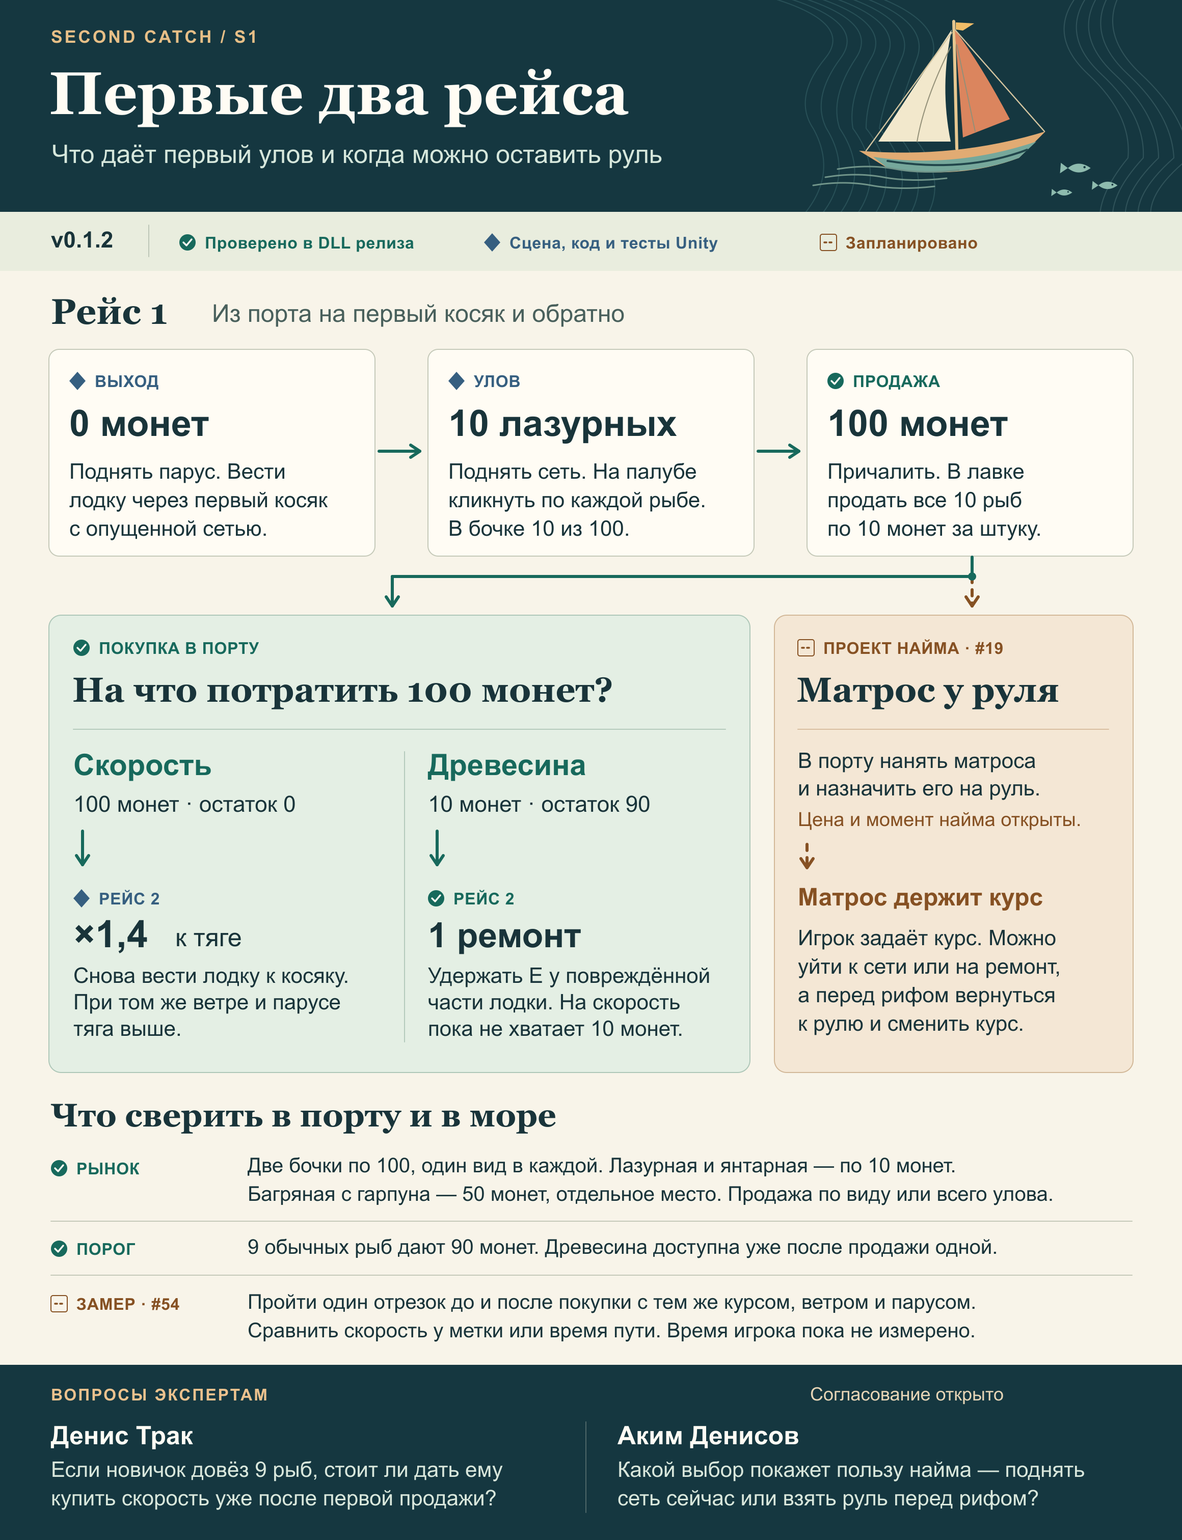
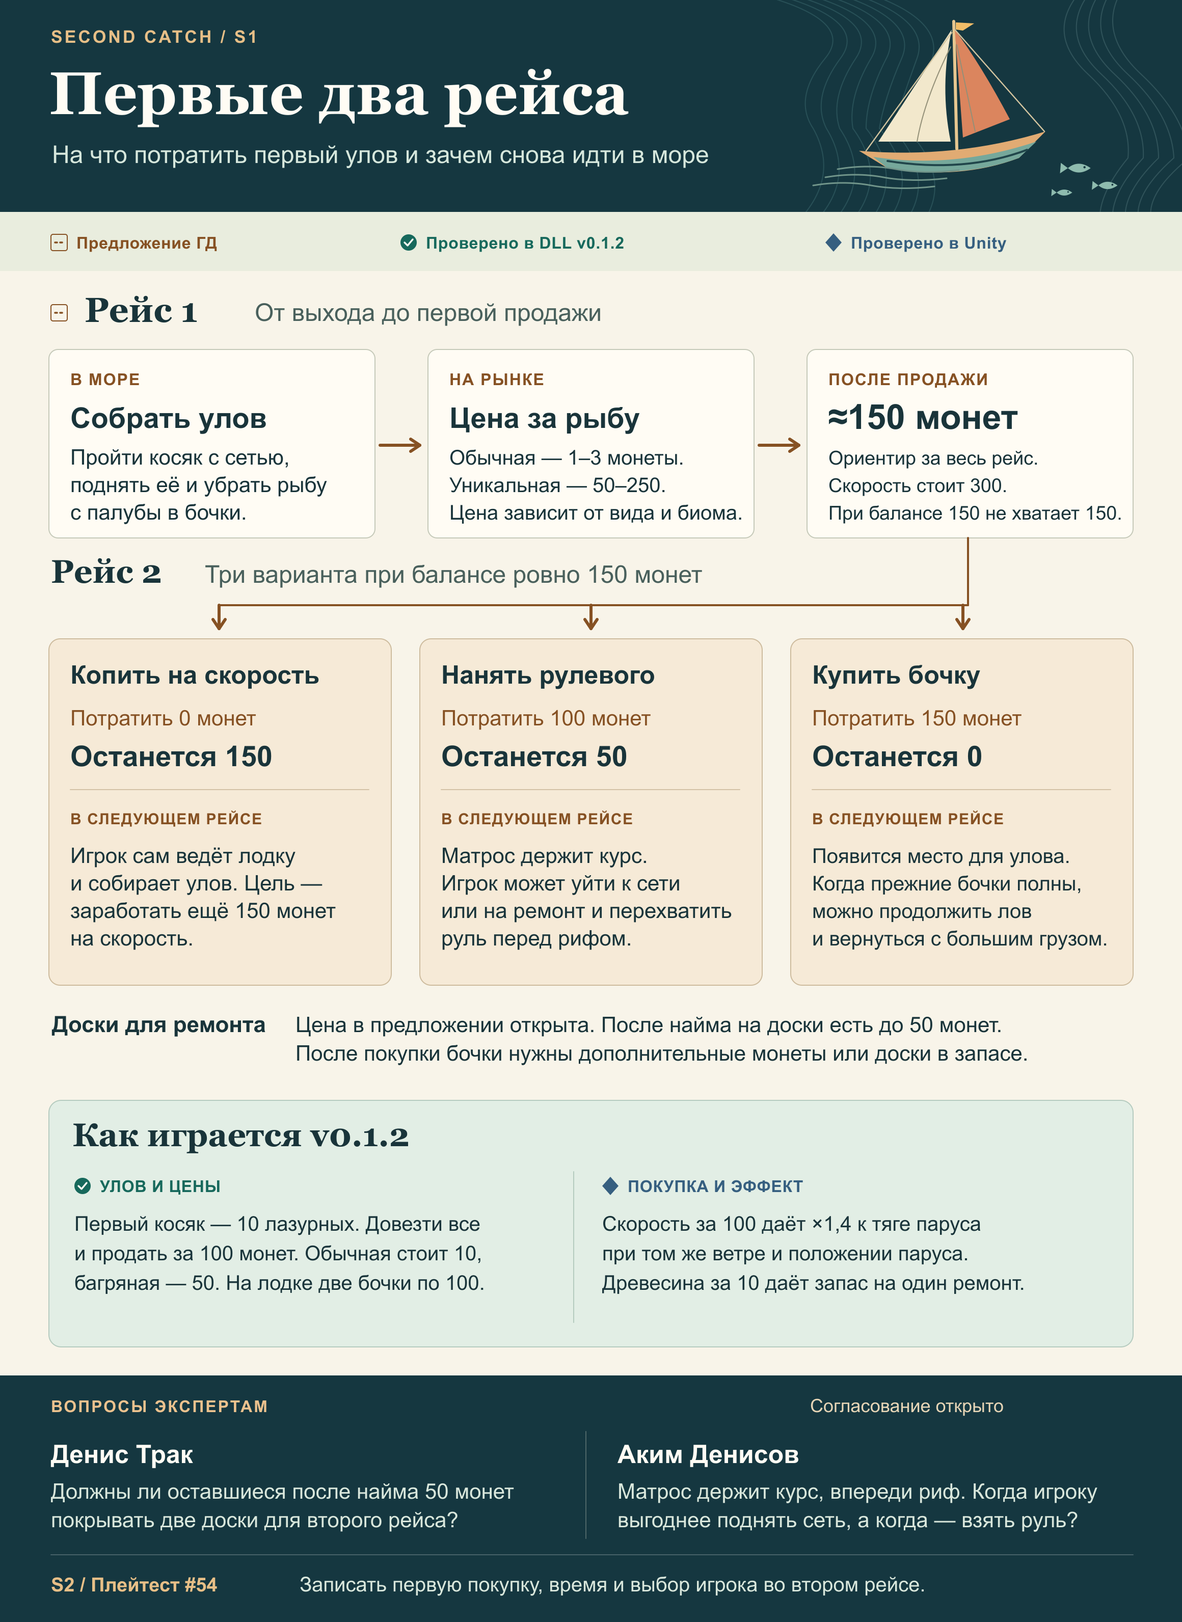
Показать выбор второго рейса по предложению ГД

diff --git a/docs/v2/s1-two-voyage-progression.md b/docs/v2/s1-two-voyage-progression.md
@@ -1,12 +1,24 @@
 # S1. Прогрессия первых двух рейсов
 
-В [v0.1.2](https://github.com/RelaxerR/raid-s3-jamstorm/releases/tag/v0.1.2) полный первый косяк оплачивает улучшение скорости. Древесину можно купить раньше и потратить в следующем рейсе на ремонт. Первый найм показан отдельной проектной веткой. Схема подготовлена для обсуждения [#55](https://github.com/RelaxerR/raid-s3-jamstorm/issues/55) 26 ноября 2026 года.
+ГД xzxslava предложил ориентир первой продажи — около 150 монет. При таком доходе можно начать копить на скорость, нанять рулевого или взять дополнительную бочку. На схеме показано, что игрок сможет сделать в следующем рейсе при каждом выборе. Ниже для сравнения приведены проверенные числа v0.1.2. [Комментарий ГД от 26 ноября](https://github.com/RelaxerR/raid-s3-jamstorm/pull/68#issuecomment-7190203458) · [Задача #55](https://github.com/RelaxerR/raid-s3-jamstorm/issues/55)
 
-[![Два рейса. Десять лазурных рыб дают 100 монет. После продажи игрок выбирает скорость или запас на ремонт. Отдельная ветка показывает будущего матроса у руля.](s1-two-voyage-progression.png)](s1-two-voyage-progression.png)
+[![Предложение ГД для первых двух рейсов. При 150 монетах игрок может копить на скорость за 300, нанять рулевого за 100 или купить дополнительную бочку за 150. Внизу показаны проверенные цены v0.1.2.](s1-two-voyage-progression.png)](s1-two-voyage-progression.png)
 
 [Открыть PNG в полном размере](s1-two-voyage-progression.png) · [Исходник SVG с текстовыми подписями](s1-two-voyage-progression.svg)
 
-## Сколько приносит первый косяк
+## Предложение ГД от 26 ноября
+
+Обычная рыба стоит 1–3 монеты за штуку, уникальная — 50–250 в зависимости от вида и биома. Около 150 монет — ориентир выручки за **весь первый рейс**. Состав улова в предложении не задан. Для сравнения, десять обычных рыб при таких ценах дадут от 10 до 30 монет. [Исходный комментарий](https://github.com/RelaxerR/raid-s3-jamstorm/pull/68#issuecomment-7190203458)
+
+| Решение в порту при балансе ровно 150 | Остаток до покупки досок | Что меняется в рейсе 2 |
+| --- | ---: | --- |
+| Сохранить деньги на скорость за 300 | 150 монет | Игрок сам ведёт лодку и работает у сети. До покупки скорости нужно заработать ещё 150. |
+| Нанять рулевого за 100 | 50 монет | Игрок задаёт курс и уходит к сети или на ремонт. Матрос держит курс до ручного перехвата. Перед рифом игрок решает, продолжать работу или взять руль. |
+| Купить дополнительную бочку за 150 | 0 монет | Если прежние бочки полны, можно продолжить лов и доставить больше рыбы. Ёмкость новой бочки ГД пока не указал. |
+
+ГД также предложил взять в рейс пару досок. После найма на них остаётся 50 монет, стоимость пары ещё нужно уточнить. Если бочка забрала все 150, на доски потребуется дополнительная выручка или запас до покупки. Фактическая первая покупка и её время станут известны после самостоятельного прогона в S2. [Плейтест #54](https://github.com/RelaxerR/raid-s3-jamstorm/issues/54)
+
+## Сколько приносит первый косяк в v0.1.2
 
 На старте у игрока 0 монет. В HomeShallows первый косяк по курсу от причала даёт 10 лазурных рыб в опущенную сеть. Для контрольного рейса поднимите сеть, в режиме ходьбы кликните по каждой рыбе на палубе и проверьте бочку до швартовки. Продать можно только доставленный груз. Рыба может уйти из сети на ходу или упасть с палубы, а при швартовке незапасённый улов пропадает. [Сцена](../../Assets/_Project/Scenes/HomeShallows.unity) · [Порция первого косяка](../../Assets/_Project/Prefabs/Fish/FishSchool.prefab) · [Правила улова](entities/cargo.md)
 
@@ -25,9 +37,9 @@
 
 **Сцена и тесты Unity.** Дерево проверки интеграционного PR #67 совпадает с деревом тега `v0.1.2` (`fd60ea4`). Отчёты CI содержат 80 прошедших тестов EditMode и 22 PlayMode. На втором выходе тест `BootMenuPortSeaReturnAndRestart` поднимает парус и сравнивает продольную парусную тягу, делённую на степень подъёма паруса, с результатом первого выхода. Измеренное значение укладывается в исходное ×1,4 с допуском 0,05. Отдельные тесты проходят продажу и покупку через панель порта и расход древесины при ремонте с палубы. [Отчёты Unity CI](https://github.com/RelaxerR/raid-s3-jamstorm/actions/runs/45687293770) · [Сравнение тяги](../../Assets/_Project/Scripts/Tests/ScenePipelineTests.cs) · [Лавка](../../Assets/_Project/Scripts/Tests/PlayMode/PortTradePanelTests.cs) · [Ремонт](../../Assets/_Project/Scripts/Tests/PlayMode/WoodRepairVoyageTests.cs)
 
-**Проверка с игроком.** Для показа к 29 ноября пройти один участок до и после покупки с одной лодкой, теми же отметками, начальной скоростью, курсом, ветром и положением паруса. Снять время пути или скорость у отметки. В отдельном прогоне дать новичку два рейса без подсказок и записать время первой покупки, реальный выбор и объяснение, зачем снова выходить в море. Замера секунд и ответа игрока для v0.1.2 пока нет. Корпус и вместимость как варианты покупки остаются в #39. [Улучшения #39](https://github.com/RelaxerR/raid-s3-jamstorm/issues/39) · [Внешний прогон #54](https://github.com/RelaxerR/raid-s3-jamstorm/issues/54) · [Форма наблюдений](s1-two-voyage-playtest.md)
+**Проверка с игроком.** Для показа к 29 ноября пройти один участок до и после покупки с одной лодкой, теми же отметками, начальной скоростью, курсом, ветром и положением паруса. Снять время пути или скорость у отметки. В S2 в рамках #54 дать новичку два рейса без подсказок и записать время первой покупки, реальный выбор и объяснение, зачем снова выходить в море. Замера секунд и ответа игрока для v0.1.2 пока нет. Корпус и вместимость как варианты покупки остаются в #39. [Улучшения #39](https://github.com/RelaxerR/raid-s3-jamstorm/issues/39) · [Внешний прогон #54](https://github.com/RelaxerR/raid-s3-jamstorm/issues/54) · [Форма наблюдений](s1-two-voyage-playtest.md)
 
-**Первый найм.** В #19 игрок нанимает матроса в порту и назначает его на руль. Матрос держит последний заданный курс, пока игрок работает у сети или ремонтирует корпус. Игрок выбирает курс и момент, когда вернуться к рулю. После реализации проверить один эпизод с рифом и готовой к подъёму сетью до и после назначения. Ручной перехват должен менять курс, уход игрока со станции — возвращать управление матросу. Цена и место найма в очереди покупок пока открыты. [Требования к найму #19](https://github.com/RelaxerR/raid-s3-jamstorm/issues/19)
+**Первый найм.** В #19 игрок нанимает матроса в порту и назначает его на руль. Матрос держит последний заданный курс, пока игрок работает у сети или ремонтирует корпус. Игрок выбирает курс и момент, когда вернуться к рулю. После реализации проверить один эпизод с рифом и готовой к подъёму сетью до и после назначения. Ручной перехват должен менять курс, уход игрока со станции — возвращать управление матросу. Для обсуждения ГД предложил цену 100 монет. В v0.1.2 портовый найм ещё не реализован. [Требования к найму #19](https://github.com/RelaxerR/raid-s3-jamstorm/issues/19)
 
 ## На чём основаны вопросы
 
@@ -39,15 +51,15 @@
 | Влад Борец, Jamstorm, 21 ноября | Этапы считают от 16 ноября. В ранней версии повтор выходов, лавки и подъёма паруса утомлял. Для нового прогона важно услышать, зачем игрок сам отправился во второй рейс. [№15570–15571](https://t.me/c/3808579536/15571) · [№15577](https://t.me/c/3808579536/15577) |
 | John Karter, Jamstorm, 21 ноября | Команда предложила прогрессию через улучшение станций и назначение экипажа. Роль первого матроса конкретизирована в #19. [№15578](https://t.me/c/3808579536/15578) · [#19](https://github.com/RelaxerR/raid-s3-jamstorm/issues/19) |
 
-Два адресных вопроса поставлены в [#55](https://github.com/RelaxerR/raid-s3-jamstorm/issues/55). Согласование открыто. После публикации в рабочем топике команда сможет добавить дату, ссылку на ответ и принятое решение по каждому вопросу. Предыдущая версия схемы подготовлена в [PR #63](https://github.com/RelaxerR/raid-s3-jamstorm/pull/63).
+Предложение ГД по ценам учтено в схеме. Два адресных вопроса поставлены в [#55](https://github.com/RelaxerR/raid-s3-jamstorm/issues/55). Согласование открыто. После публикации в рабочем топике команда сможет добавить дату, ссылку на ответ и принятое решение по каждому вопросу. Предыдущая версия схемы подготовлена в [PR #63](https://github.com/RelaxerR/raid-s3-jamstorm/pull/63).
 
 ## Текст для рабочего топика
 
-> Собрали схему первых двух рейсов на v0.1.2. Первый косяк даёт 10 лазурных. Если довезти все, продажи хватает ровно на скорость. На следующем выходе парус даёт в 1,4 раза больше тяги при тех же условиях. Время маршрута ещё замерим. Найм пока в плане. [Схема](https://raw.githubusercontent.com/RelaxerR/raid-s3-jamstorm/63e9fe5d292862d3037bb411f3eee4b98a1d2168/docs/v2/s1-two-voyage-progression.png) · [Билд](https://github.com/RelaxerR/raid-s3-jamstorm/releases/tag/v0.1.2)
+> Обновили схему по предложению ГД. Если после первого рейса получили 150 монет, на скорость за 300 нужно заработать ещё столько же. Можно нанять рулевого за 100 и оставить 50 на доски. Можно взять бочку за 150, тогда доски нужны из запаса. Для сравнения на схеме есть цены действующей сборки. [Схема](https://raw.githubusercontent.com/RelaxerR/raid-s3-jamstorm/relaxerr/s1-progression-visual/docs/v2/s1-two-voyage-progression.png) · [Билд v0.1.2](https://github.com/RelaxerR/raid-s3-jamstorm/releases/tag/v0.1.2)
 >
-> Денис Трак, если новичок потерял одну рыбу и привёз 90 монет, стоит ли дать ему купить скорость уже после первой продажи?
+> Денис Трак, должны ли оставшиеся после найма 50 монет покрывать две доски для второго рейса?
 >
-> Аким Денисов, матрос держит курс, впереди риф, а сеть пора поднимать. Какой выбор игрока покажет, что найм сработал?
+> Аким Денисов, матрос держит курс, впереди риф. Когда игроку выгоднее поднять сеть, а когда взять руль? В S2 проверим, как это решение принимает новый игрок.
 
 <details>
 <summary>Исторический срез v0.1.1 и протокол из PR #63</summary>
